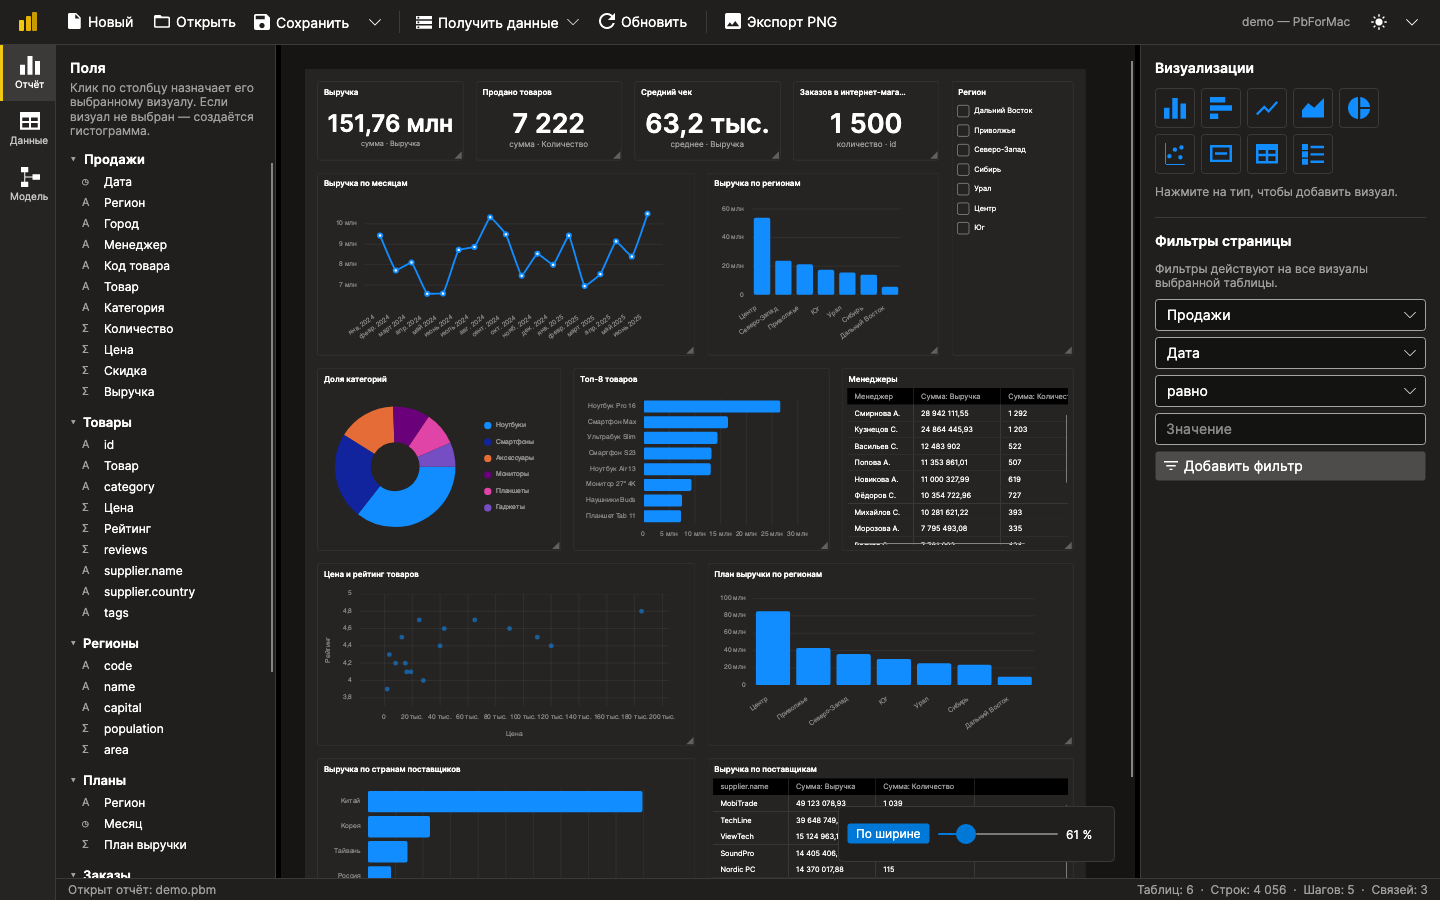
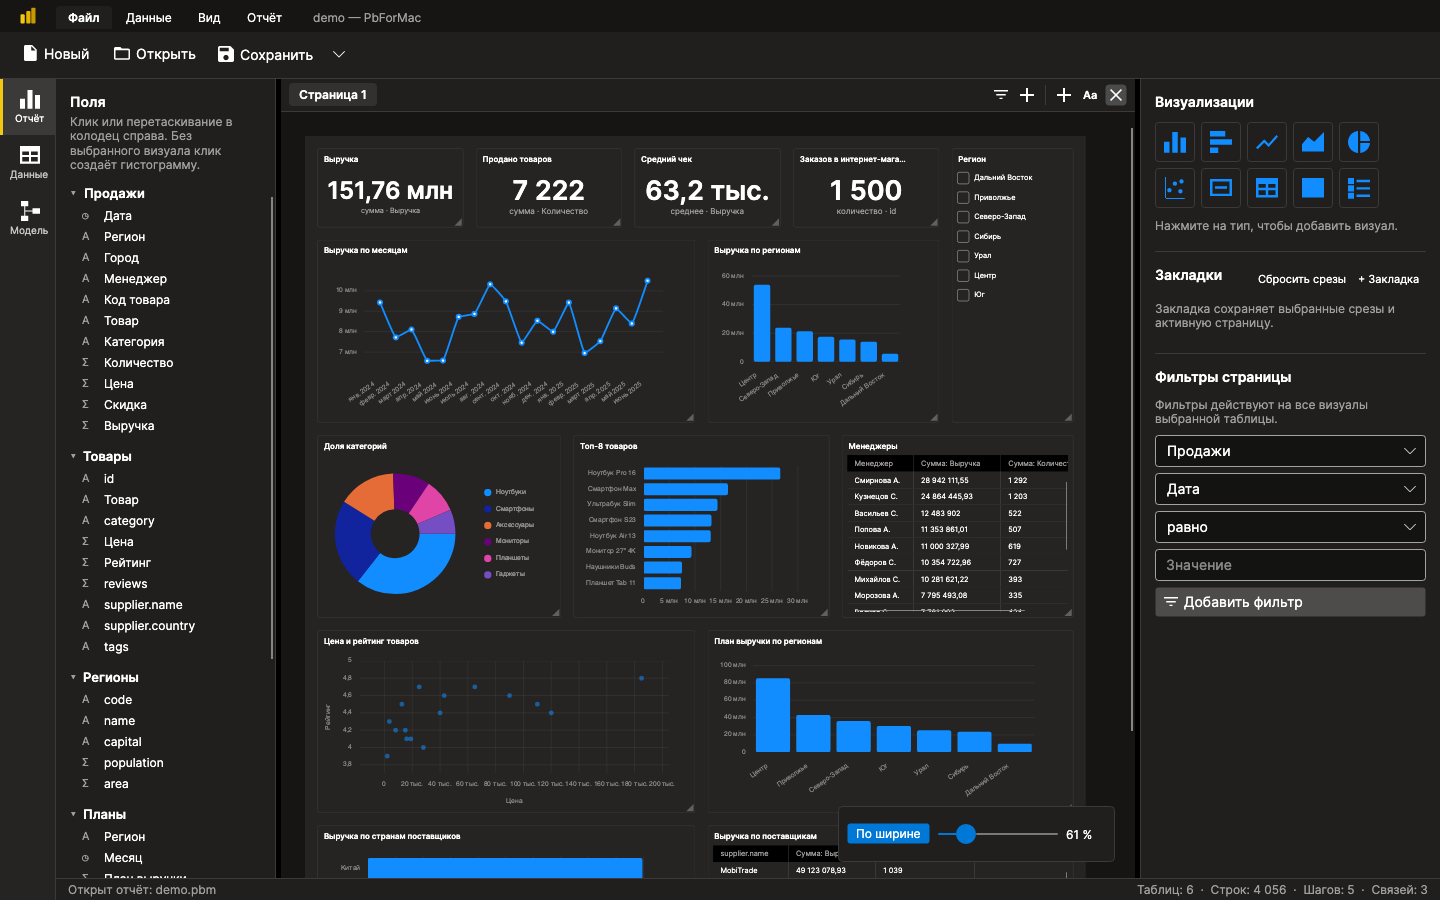
Replace flat toolbar with a simple ribbon strip.

diff --git a/src/PbForMac/ViewModels/MainWindowViewModel.cs b/src/PbForMac/ViewModels/MainWindowViewModel.cs
@@ -78,11 +78,29 @@ public sealed partial class MainWindowViewModel : ViewModelBase
     public bool IsDataPage => CurrentPage == Data;
     public bool IsModelPage => CurrentPage == Transform;
 
+    [ObservableProperty]
+    [NotifyPropertyChangedFor(nameof(IsRibbonFile), nameof(IsRibbonData), nameof(IsRibbonView), nameof(IsRibbonReport))]
+    private string _ribbonTab = "Файл";
+
+    public bool IsRibbonFile => RibbonTab == "Файл";
+    public bool IsRibbonData => RibbonTab == "Данные";
+    public bool IsRibbonView => RibbonTab == "Вид";
+    public bool IsRibbonReport => RibbonTab == "Отчёт";
+
     public string Title => $"{(ReportPath is null ? "Новый отчёт" : Path.GetFileNameWithoutExtension(ReportPath))} — PbForMac";
 
     /// <summary>Быстрое переключение между светлой и тёмной темой.</summary>
     [RelayCommand]
     private void ToggleTheme() => SetTheme(_theme.IsDark ? AppTheme.Light : AppTheme.Dark);
+
+    [RelayCommand]
+    private void SelectRibbonTab(string tab) => RibbonTab = tab;
+
+    [RelayCommand]
+    private void ResetReportSlicers() => Report.ResetSlicersCommand.Execute(null);
+
+    [RelayCommand]
+    private Task AddReportBookmarkAsync() => Report.AddBookmarkCommand.ExecuteAsync(null);
 
     [RelayCommand]
     private void SetTheme(AppTheme theme)

diff --git a/tests/PbForMac.Tests/ReportViewUiTests.cs b/tests/PbForMac.Tests/ReportViewUiTests.cs
@@ -68,7 +68,7 @@ public class ReportViewUiTests
     }
 
     [AvaloniaFact]
-    public void Toolbar_HasNoSampleButton()
+    public void Toolbar_HasRibbonTabs_AndNoSampleButton()
     {
         var window = new MainWindow();
         window.DataContext = new MainWindowViewModel(new NoDialogs(), new ThemeService(Application.Current!), new AppSettings());
@@ -76,6 +76,10 @@ public class ReportViewUiTests
         Dispatcher.UIThread.RunJobs();
 
         var texts = window.GetVisualDescendants().OfType<TextBlock>().Select(t => t.Text).ToList();
+        Assert.Contains("Файл", texts);
+        Assert.Contains("Данные", texts);
+        Assert.Contains("Вид", texts);
+        Assert.Contains("Отчёт", texts);
         Assert.Contains("Получить данные", texts);
         Assert.DoesNotContain("Пример", texts);
     }
